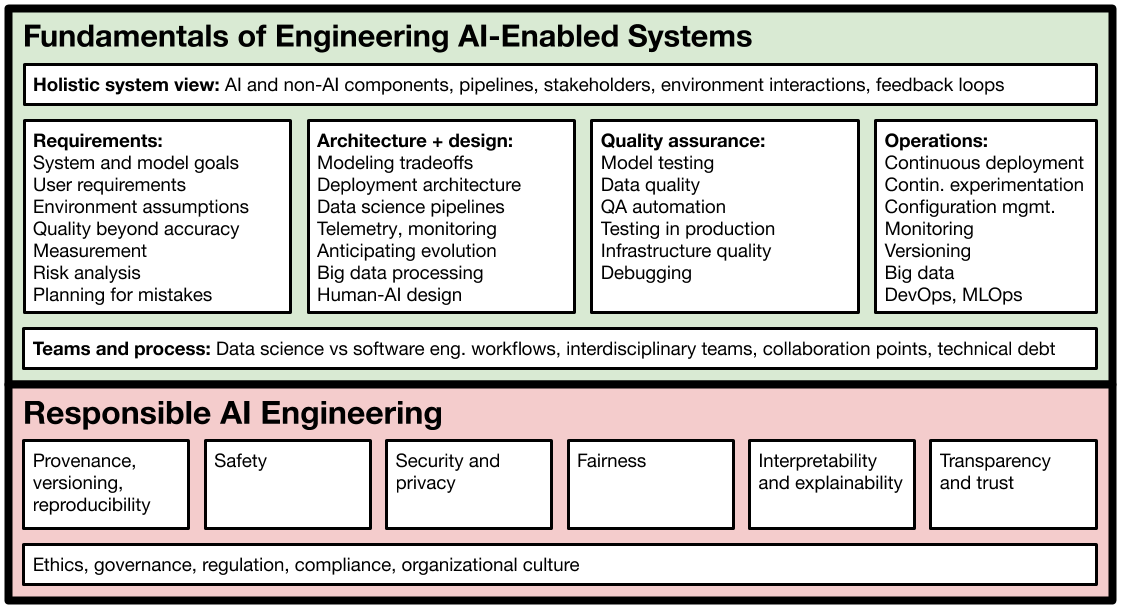
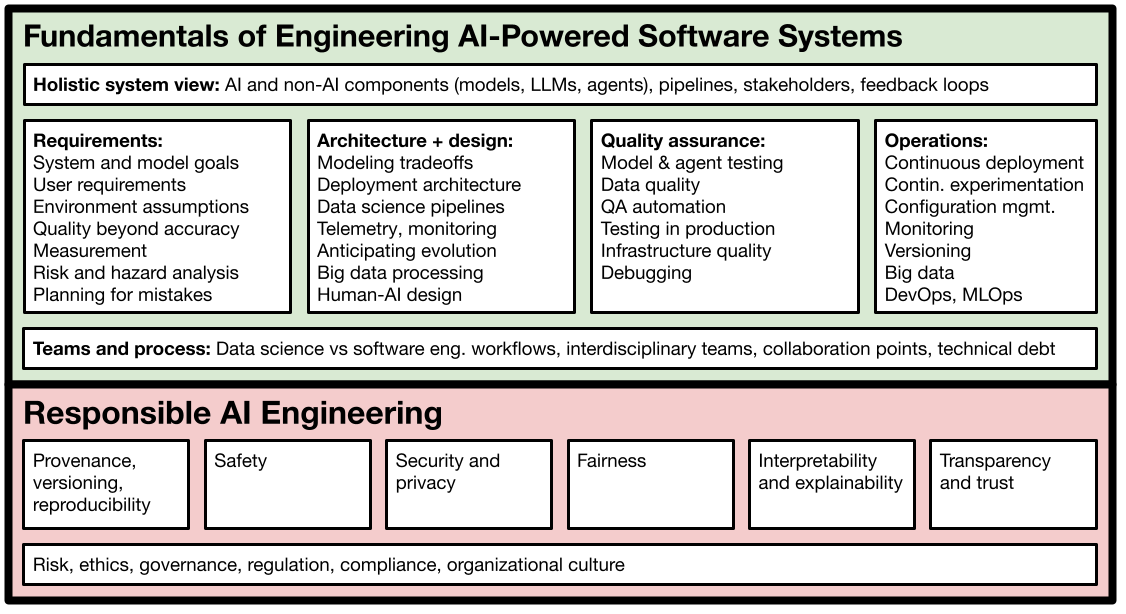
update language and links for f26

diff --git a/README.md b/README.md
@@ -1,17 +1,17 @@
 # Machine Learning in Production @ CMU
 
-Shortcuts: <span style="font-weight:bold; background-color:rgb(46, 125, 50);    transition: background-color 250ms cubic-bezier(0.4, 0, 0.2, 1) 0ms, box-shadow 250ms cubic-bezier(0.4, 0, 0.2, 1) 0ms, border-color 250ms cubic-bezier(0.4, 0, 0.2, 1) 0ms, color 250ms cubic-bezier(0.4, 0, 0.2, 1) 0ms; color:white; box-shadow: rgba(0, 0, 0, 0.2) 0px 3px 1px -2px, rgba(0, 0, 0, 0.14) 0px 2px 2px 0px, rgba(0, 0, 0, 0.12) 0px 1px 5px 0px; padding: 6px 16px;border-radius:4px ; text-decoration: none;"><a href="https://mlip-cmu.github.io/s2026/" style="color:white">The Course (Spring 2026)</a></span> <span style="font-weight:bold; background-color:rgb(46, 125, 50);    transition: background-color 250ms cubic-bezier(0.4, 0, 0.2, 1) 0ms, box-shadow 250ms cubic-bezier(0.4, 0, 0.2, 1) 0ms, border-color 250ms cubic-bezier(0.4, 0, 0.2, 1) 0ms, color 250ms cubic-bezier(0.4, 0, 0.2, 1) 0ms; color:white; box-shadow: rgba(0, 0, 0, 0.2) 0px 3px 1px -2px, rgba(0, 0, 0, 0.14) 0px 2px 2px 0px, rgba(0, 0, 0, 0.12) 0px 1px 5px 0px; padding: 6px 16px;border-radius:4px ; text-decoration: none;"><a href="https://mlip-cmu.github.io/book/" style="color:white">The Book</a></span>
+Shortcuts: <span style="font-weight:bold; background-color:rgb(46, 125, 50);    transition: background-color 250ms cubic-bezier(0.4, 0, 0.2, 1) 0ms, box-shadow 250ms cubic-bezier(0.4, 0, 0.2, 1) 0ms, border-color 250ms cubic-bezier(0.4, 0, 0.2, 1) 0ms, color 250ms cubic-bezier(0.4, 0, 0.2, 1) 0ms; color:white; box-shadow: rgba(0, 0, 0, 0.2) 0px 3px 1px -2px, rgba(0, 0, 0, 0.14) 0px 2px 2px 0px, rgba(0, 0, 0, 0.12) 0px 1px 5px 0px; padding: 6px 16px;border-radius:4px ; text-decoration: none;"><a href="https://mlip-cmu.github.io/f2026/" style="color:white">The Course (Fall 2026)</a></span> <span style="font-weight:bold; background-color:rgb(46, 125, 50);    transition: background-color 250ms cubic-bezier(0.4, 0, 0.2, 1) 0ms, box-shadow 250ms cubic-bezier(0.4, 0, 0.2, 1) 0ms, border-color 250ms cubic-bezier(0.4, 0, 0.2, 1) 0ms, color 250ms cubic-bezier(0.4, 0, 0.2, 1) 0ms; color:white; box-shadow: rgba(0, 0, 0, 0.2) 0px 3px 1px -2px, rgba(0, 0, 0, 0.14) 0px 2px 2px 0px, rgba(0, 0, 0, 0.12) 0px 1px 5px 0px; padding: 6px 16px;border-radius:4px ; text-decoration: none;"><a href="https://mlip-cmu.github.io/book/" style="color:white">The Book</a></span> <span style="font-weight:bold; background-color:rgb(46, 125, 50);    transition: background-color 250ms cubic-bezier(0.4, 0, 0.2, 1) 0ms, box-shadow 250ms cubic-bezier(0.4, 0, 0.2, 1) 0ms, border-color 250ms cubic-bezier(0.4, 0, 0.2, 1) 0ms, color 250ms cubic-bezier(0.4, 0, 0.2, 1) 0ms; color:white; box-shadow: rgba(0, 0, 0, 0.2) 0px 3px 1px -2px, rgba(0, 0, 0, 0.14) 0px 2px 2px 0px, rgba(0, 0, 0, 0.12) 0px 1px 5px 0px; padding: 6px 16px;border-radius:4px ; text-decoration: none;"><a href="https://www.youtube.com/playlist?list=PLDS2JMJnJzdmubSKnanmIwzr08cionWm_" style="color:white">Lecture recordings (Spring 2026)</a></span>
 
-Find resources related to teaching and research on how to build, deploy, assure, and maintain **software products with machine-learned models**. For example, how to integrate a voice-to-text model and an LLM into a video conferencing product to create automated meeting summaries. We cover the entire lifecycle from a prototype ML model to an entire product deployed in the real world, not just models or notebooks. Covers also the **responsible ML engineering** of such systems (safety, security, fairness, transparency) and **MLOps**. 
+Find resources related to teaching and research on how to build, deploy, assure, and maintain **AI-powered software products**, spanning classic machine learning, LLMs, and AI agents. For example, how to integrate a voice-to-text model and an LLM into a video conferencing product to create automated meeting summaries. This is not about chasing a benchmark or building a throwaway demo, but focuses on the hard parts: We cover the entire lifecycle, from a prototype model to an entire product deployed and operated in the real world under load, with real customers who depend on it. Because models make mistakes, we emphasize **managing risk** and the **responsible engineering** of such systems (safety, security, fairness, transparency), together with **MLOps**. 
 
-All materials (book, slides, assignments, bibliography) are released under creative commons licenses. We hope that this fosters teaching and research on these topics.
+All materials (book, slides, assignments, video recordings, bibliography) are released under creative commons licenses. We hope that this fosters teaching and research on these topics.
 
 Maintained by [Christian Kaestner](https://www.cs.cmu.edu/~ckaestne/).
 
 
 ## The Pitch
 
-The following talk motivates the entire endeavor, explains the need to focus on engineering the entire system, not just the model, and runs through what this means from the lens of quality assurance (model testing to system testing):
+The following talk motivates the entire endeavor, explains why we engineer the entire system around the model, and runs through what this means from the lens of quality assurance (from model testing to system testing):
 
 <iframe width="560" height="315" src="https://www.youtube-nocookie.com/embed/G-N1iBYYXVo" frameborder="0" allowfullscreen="true"></iframe>
 
@@ -27,12 +27,13 @@ A book has been published MIT Press as open access. All author proceeds are dona
 
 ## The Course
 
-<span style="font-weight:bold; background-color:rgb(46, 125, 50);    transition: background-color 250ms cubic-bezier(0.4, 0, 0.2, 1) 0ms, box-shadow 250ms cubic-bezier(0.4, 0, 0.2, 1) 0ms, border-color 250ms cubic-bezier(0.4, 0, 0.2, 1) 0ms, color 250ms cubic-bezier(0.4, 0, 0.2, 1) 0ms; color:white; box-shadow: rgba(0, 0, 0, 0.2) 0px 3px 1px -2px, rgba(0, 0, 0, 0.14) 0px 2px 2px 0px, rgba(0, 0, 0, 0.12) 0px 1px 5px 0px; padding: 6px 16px;border-radius:4px ; text-decoration: none;"><a href="https://mlip-cmu.github.io/s2026/" style="color:white">Spring 2026 website</a></span>
+<span style="font-weight:bold; background-color:rgb(46, 125, 50);    transition: background-color 250ms cubic-bezier(0.4, 0, 0.2, 1) 0ms, box-shadow 250ms cubic-bezier(0.4, 0, 0.2, 1) 0ms, border-color 250ms cubic-bezier(0.4, 0, 0.2, 1) 0ms, color 250ms cubic-bezier(0.4, 0, 0.2, 1) 0ms; color:white; box-shadow: rgba(0, 0, 0, 0.2) 0px 3px 1px -2px, rgba(0, 0, 0, 0.14) 0px 2px 2px 0px, rgba(0, 0, 0, 0.12) 0px 1px 5px 0px; padding: 6px 16px;border-radius:4px ; text-decoration: none;"><a href="https://mlip-cmu.github.io/f2026/" style="color:white">Fall 2026 website</a></span>
 
-We teach a 12-unit course at Carnegie Mellon University on this topic, open to undergraduates and graduate students. We expect some minimal machine learning background and some programming skills, but no prior software engineering research. The course is always offered in the spring semester and often also in the fall.
+We teach a 12-unit course at Carnegie Mellon University on this topic, open to undergraduates and graduate students. We expect some minimal machine learning background and some programming skills, but no prior software engineering experience. The course is offered regularly in both the spring and fall semesters.
 
 ![Course topics overview](overview.svg "Course topics overview")
 
+* Fall 2026: [F2026 website](https://mlip-cmu.github.io/f2026/) and [F2026 on GitHub](https://github.com/mlip-cmu/f2026)
 * Spring 2026: [S2026 website](https://mlip-cmu.github.io/s2026/) and [S2026 on GitHub](https://github.com/mlip-cmu/s2026)
 * Fall 2025: [F2025 website](https://mlip-cmu.github.io/f2025/) and [F2025 on GitHub](https://github.com/mlip-cmu/f2025)
 * Spring 2025: [S2025 website](https://mlip-cmu.github.io/s2025/) and [S2025 on GitHub](https://github.com/mlip-cmu/s2025)